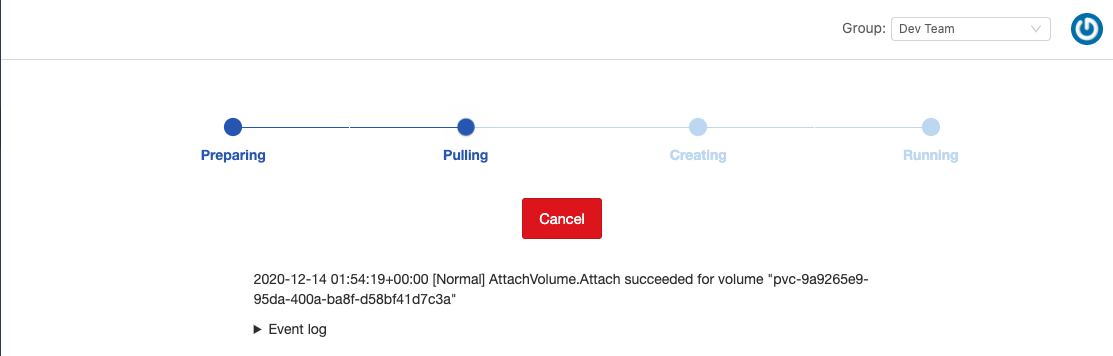
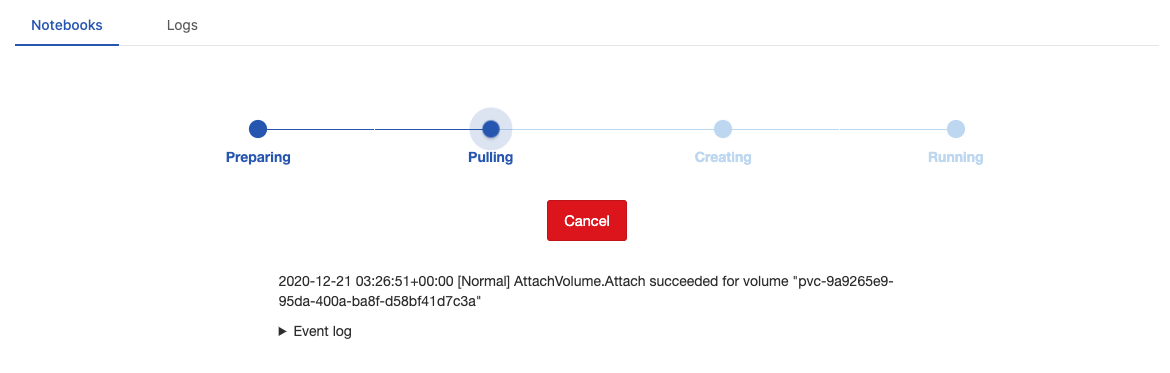
Added screenshots and descriptions.g [ch14378]

diff --git a/docs/zh-tw/quickstart/launch-project.md b/docs/zh-tw/quickstart/launch-project.md
@@ -38,6 +38,14 @@ title: 啟始 Notebook
 
 啟動過程可以按 `Cancel` 取消 。
 
+### Logs
+
+啟動過程會被記錄在 `Logs` 而且可以下載成檔案。
+
+![](assets/spawner_log.png)
+
+>如果沒有正在啟動的 Notebook，畫面顯示預設訊息 `Error: cannot get log due to pods "jupyter-xxxx" not found`。
+
 ## 關閉
 
 點擊 `Stop My Server`，稍待後會關閉。

diff --git a/docs/quickstart/launch-project.md b/docs/quickstart/launch-project.md
@@ -41,6 +41,13 @@ This quickstart shows how to launch/stop a project.
 
 Spawning can be cancelled by clicking `Cancel`.
 
+### Logs
+
+The spawning logs can be viewed in `Logs` tab and be downloaded.
+
+![](assets/spawner_log.png)
+
+>If there is no spawning notebook, it shows `Error: cannot get log due to pods "jupyter-xxxx" not found` by default.
 
 ## Stop
 
